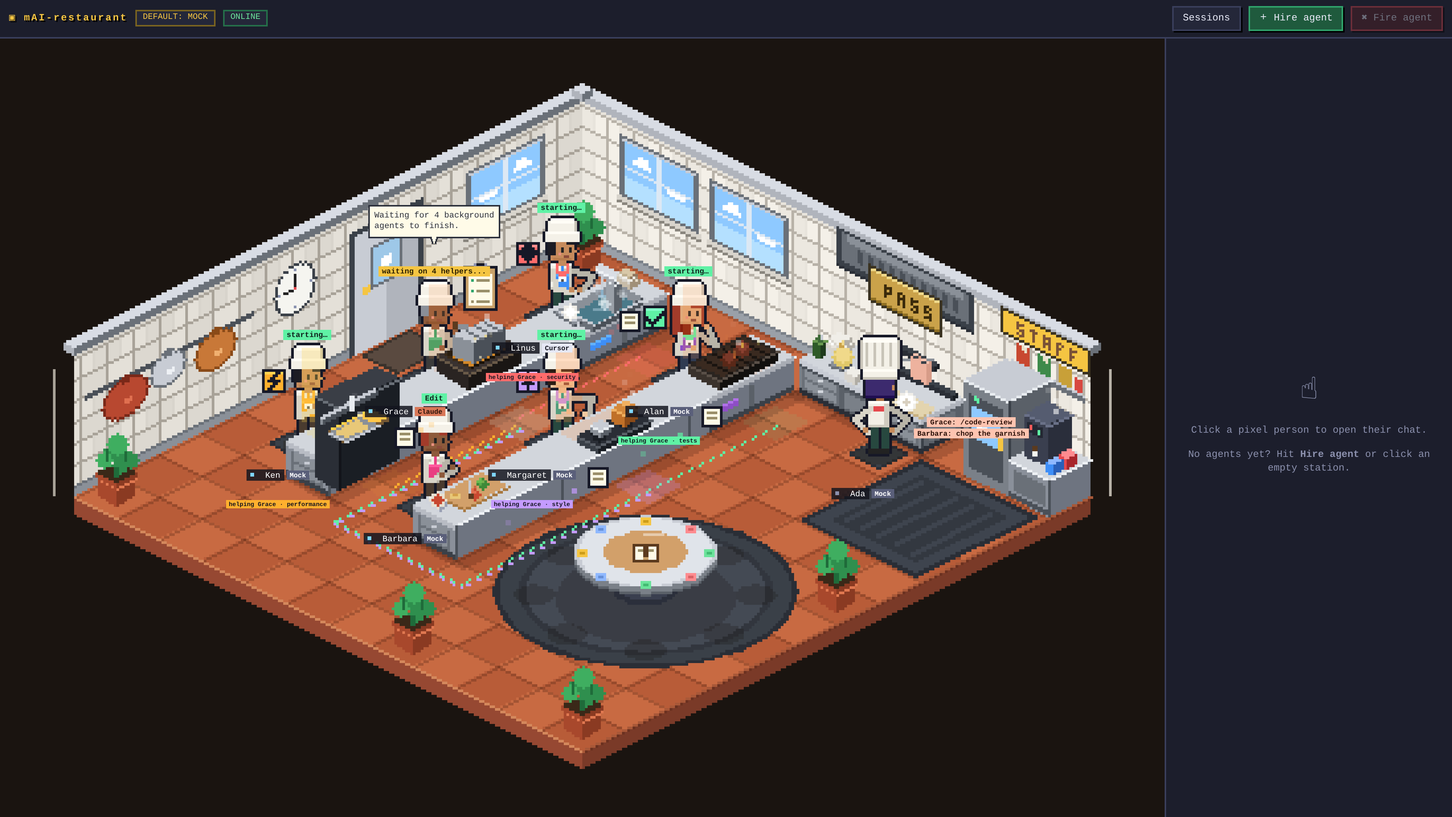
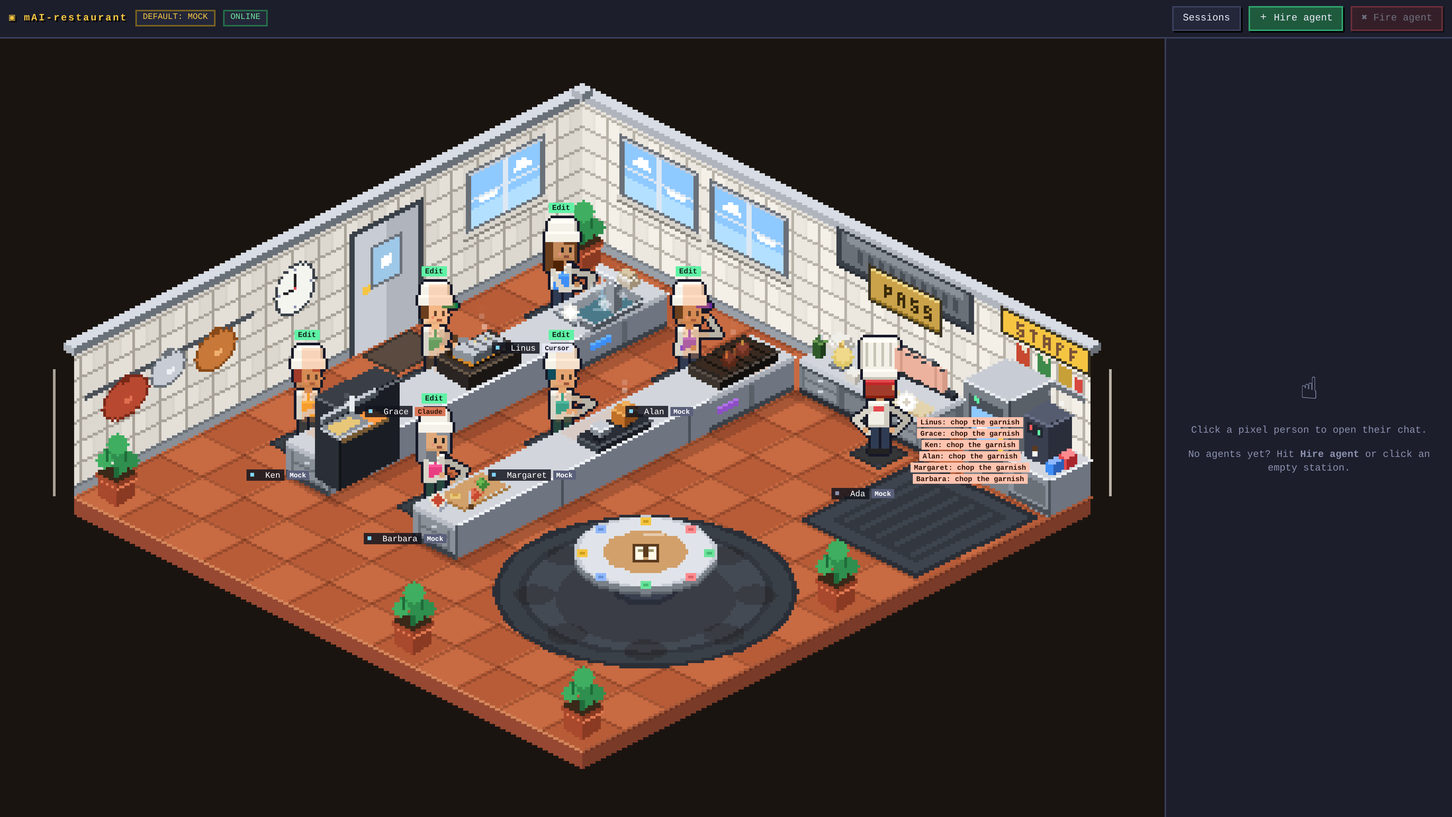
Subagents work as kitchen hands

diff --git a/public/js/app.js b/public/js/app.js
@@ -472,9 +472,8 @@
       if (a.help) {
         const h = a.help, desk = !a.away && h.phase !== 'go';
         const pose = h.phase === 'go' ? 'walk' : h.phase === 'work' ? 'work' : (h.phase === 'failed' ? 'worry' : 'cheer');
-        if (desk) {       // seated at their own desk: typing animation, monitor flicker and tool chip come from the normal "working" rendering
-          if (h.phase === 'work') { state = 'working'; tool = h.tool || 'starting…'; } else { state = h.phase === 'failed' ? 'error' : (h.cheerUntil && now < h.cheerUntil ? 'done' : 'idle'); tool = null; }   // ok: sits satisfied, then everyone celebrates together at wrap-up
-        }
+        if (h.phase === 'work') { state = 'working'; tool = h.tool || 'starting…'; }   // at their own station or on a trip for the tool
+        else if (desk) { state = h.phase === 'failed' ? 'error' : (h.cheerUntil && now < h.cheerUntil ? 'done' : 'idle'); tool = null; }   // ok: back at the station, then everyone celebrates together at wrap-up
         const pe = h.peer && now < h.peer.until ? agents.get(h.peer.withId) : null;
         if (pe) {
           const beat = Math.floor((now - h.peer.t0) / (1100 * TS));
@@ -489,7 +488,7 @@
         phase: a.phase, away: a.away, x: a.x, y: a.y, face: a.face || 0, mode: a.mode, dest: a.dest || null, cook: a.cook || null, bubble,
         act: a.act ? a.act.kind : null, actP: a.act ? (now - a.act.t0) / 1000 : 0,
         talk: htalk != null ? htalk : talk, talkDir: htalk != null ? htalkDir : (a.chatSide === 0 ? 1 : -1),
-        help: helpV, waiting: (a.subs || []).length,
+        help: helpV, waiting: (a.subs || []).length, carry: a.dest === 'serve' && (a.mode === 'serve' || a.dir === 1) && a.help ? (a.help.phase === 'failed' ? 'burnt' : 'ok') : null,
         planAge: a.planAt && now - a.planAt < 3200 * TS ? (now - a.planAt) / 1000 : null,
         huddle: a.huddle && now < a.huddle.until ? (now - a.huddle.t0) / 1000 : null,
         faceOv: a.turn && now < a.turn.until && !a.away ? a.turn.face : null,
@@ -499,11 +498,10 @@
   const planView = () => { const o = planOwner(); return o ? { state: o.plan.state, summary: o.plan.summary || '', ownerId: o.id } : null; };
   const flightsView = (now) => flights.map((f) => ({ kind: f.kind, pid: f.pid, hid: f.hid, toId: f.toId, ok: f.ok, p: (now - f.t0) / f.dur }));
 
-  // ---------- helpers (subagents) = EXISTING colleagues, working at THEIR OWN desks ----------
+  // ---------- helpers (subagents) = EXISTING colleagues working as kitchen hands ----------
   // The server assigns every sub-task to an existing person (idle first, otherwise a new regular agent is hired and walks in through the door).
-  // That person gets `helping`: if they are away (coffee, chat) they walk back to their own desk, sit and show the helper state there (role badge,
-  // lanyard, tool chip, typing, monitor flicker, "helping <lead>" tag). Nobody walks over to the lead: papers/envelopes/letters fly along dotted
-  // lines between the desks, and the wrap-up is a synchronized celebration at each desk plus the consolidated bubble over the lead.
+  // That person gets `helping`: if away they walk back to their own station first. The head chef's ticket flies over, then the first tool with
+  // a station (see toolTrip) sends them there for the whole task. When the job ends they carry the dish to the pass, then go home.
   const flights = [];                // in-flight papers/envelopes/letters (drawn along the desk-to-desk lines)
   const peerQ = [];                  // inferred peer events waiting for both helpers to be working
   function turnToward(a, x, y, ms, now) {
@@ -539,9 +537,7 @@
   function endHelp(a, ok, short, now) {
     const h = a.help; if (!h || h.phase === 'ok' || h.phase === 'failed') return;
     if (h.phase === 'go') { h.ended = { ok, short }; return; }     // result arrived while still walking to the desk: hand it over once seated
-    h.phase = ok ? 'ok' : 'failed'; h.endAt = now; h.tool = null; h.say = short || (ok ? 'done' : 'failed'); h.sayUntil = now + 3400 * TS;
-    const parent = agents.get(h.parentId);
-    if (parent) { flights.push({ kind: 'back', pid: parent.id, hid: a.id, ok, t0: now, dur: 1500 * TS }); turnToward(parent, seatOf(a).x, seatOf(a).y, 1800 * TS, now); }
+    h.phase = ok ? 'ok' : 'failed'; h.endAt = now; h.tool = null; h.say = short || (ok ? 'done' : 'failed'); h.sayUntil = now + 3400 * TS;   // updateHelp walks the dish to the pass
   }
   /** the helper job is over for the client: back to normal idle, still sitting at their own desk */
   function releaseHelp(a, now) {
@@ -573,19 +569,25 @@
       if (h.phase === 'go' && !a.away) { a.mode = 'sit'; arriveHelp(a, now); }
       if (h.peer) {
         const o = agents.get(h.peer.withId);
-        if (now < h.peer.until && o && !a.away) turnToward(a, seatOf(o).x, seatOf(o).y, 300, now); else h.peer = null;
+        if (now < h.peer.until && o) { if (!a.away) turnToward(a, seatOf(o).x, seatOf(o).y, 300, now); } else h.peer = null;
       }
-      if (h.phase === 'ok' || h.phase === 'failed') {          // wait (at the desk) until the team wrapped up, then back to normal idle
+      if (h.phase === 'ok' || h.phase === 'failed') {          // carry the dish to the pass, come back, wait until the team wrapped up, then normal idle
         const parent = agents.get(h.parentId);
+        if (!h.serving && (!a.away || a.dest === 'pantry' || a.dest === 'heat' || a.dest === 'bell')) {
+          const spot = claimSpot('pass', a); h.serving = true;
+          if (!spot) h.served = true;
+          else if (!a.away) startWalk(a, spot, 'serve');
+          else { a.pts = Office.walkBetween({ x: a.x, y: a.y }, spot); a.idx = 0; a.target = Math.min(1, a.pts.length - 1); a.dir = 1; a.mode = 'walk'; a.dest = 'serve'; a.spot = spot; }   // straight from the pantry / stove
+        }
         const others = [...agents.values()].some((b) => b !== a && b.help && b.help.parentId === h.parentId && (b.help.phase === 'go' || b.help.phase === 'work'));
         const wrapping = parent && parent.huddle && now < parent.huddle.until;
-        if (!parent || now > h.endAt + 8000 * TS || (now > h.endAt + 2600 * TS && !others && !wrapping)) releaseHelp(a, now);
+        if (!a.away && (!parent || now > h.endAt + 25000 * TS || (h.served && !others && !wrapping))) releaseHelp(a, now);
       }
     }
     for (let i = peerQ.length - 1; i >= 0; i--) {
       const q = peerQ[i], e = q.e, A = agents.get(e.from && e.from.helperId), B = agents.get(e.to && e.to.helperId);
       if (!A || !B || now - q.t > 10000 * TS) { peerQ.splice(i, 1); continue; }
-      if (A.help && B.help && !A.away && !B.away && A.help.phase === 'work' && B.help.phase === 'work') {
+      if (A.help && B.help && A.help.phase === 'work' && B.help.phase === 'work') {
         const g = Math.max(0, ['?', '!', '...'].indexOf(e.glyph)), until = now + 3600 * TS;
         A.help.peer = { withId: B.id, t0: now, until, side: 0, g, why: e.text }; B.help.peer = { withId: A.id, t0: now, until, side: 1, g, why: e.text };
         peerQ.splice(i, 1);
@@ -654,7 +656,8 @@
   const busy = (a) => a.state !== 'idle' && a.state !== 'done';
   const joinable = (a, o) => !a.away && a.mode === 'sit' && !a.act && !a.help && !a.pendingHelp && !a.helping && !a.queued && !busy(a) && a.id !== selectedId && a !== o;
   const wantsHome = (a) => {
-    if (a.away && (a.dest === 'pantry' || a.dest === 'bell' || a.dest === 'heat')) return tripOf(a) !== (a.dest === 'heat' ? 'stove' : a.dest) || a.id === selectedId;
+    if (a.away && a.dest === 'serve') return !a.help;
+    if (a.away && (a.dest === 'pantry' || a.dest === 'bell' || a.dest === 'heat')) return tripOf(a) !== (a.dest === 'heat' ? 'stove' : a.dest);
     if (a.away && a.dest === 'meet') { const o = planOwner(); return !meetingFor(a) || (a !== o && (busy(a) || !!a.help || !!a.helping || a.id === selectedId)); }
     return !!a.help || busy(a) || a.id === selectedId || !!planOwner();
   };
@@ -664,7 +667,7 @@
 
   // tool use becomes a kitchen trip: pantry (read/search), own station's set (edit), stove/heat (bash: stay if
   // the station is already a heat set, otherwise walk to the nearest heat aisle), pass bell for a deploy / git push.
-  // Helpers on a team job stay at their own station.
+  // Kitchen hands (helpers) make the same trips for their subagent's tool once the ticket has reached them.
   const DEPLOY_RE = /\b(git\s+push|deploy|kubectl\s+apply|terraform\s+apply|npm\s+publish|docker\s+push|wrangler\s+deploy|gh\s+release)\b/i;
   const TRIPS = [
     ['pantry', /^(Read|Grep|Glob|LS|Search|WebSearch|WebFetch|GlobTool)$/i],
@@ -680,8 +683,13 @@
     return null;
   }
   function tripOf(a) {
+    if (a.help) {
+      const h = a.help;
+      if (h.phase !== 'work' || performance.now() < h.arrivedAt + 1800 * TS) return null;   // the ticket is still on its way
+      if (!h.trip) h.trip = toolTrip(h.tool);      // the first tool with a station picks it for the whole task
+      return h.trip;
+    }
     if (a.id === selectedId) return null;
-    if (a.help && (a.help.phase === 'go' || a.help.phase === 'work')) return null;
     if (a.dest === 'meet' || a.mode === 'meet' || a.meetSeat >= 0) return null;
     if (a.state !== 'working' || !a.tool) return null;
     return toolTrip(a.tool, a.toolSummary);
@@ -690,7 +698,7 @@
     const spots = (Office.SPOTS && Office.SPOTS[kind]) || [];
     if (!spots.length) return null;
     const taken = new Set();
-    for (const b of agents.values()) if (b !== a && b.away && b.dest === kind && b.spot) taken.add(b.spot.x + ',' + b.spot.y);
+    for (const b of agents.values()) if (b !== a && b.away && b.spot) taken.add(b.spot.x + ',' + b.spot.y);
     for (const s of spots) if (!taken.has(s.x + ',' + s.y)) return s;
     const n = [...agents.values()].filter((b) => b !== a && b.away && b.dest === kind).length;
     const base = spots[n % spots.length], ox = n % 2 ? 0.32 : -0.32, oy = 0.28 * (Math.floor(n / spots.length) + 1);
@@ -771,6 +779,7 @@
   function stepWalker(a, dt, now) {
     if (a.mode === 'meet') { if (wantsHome(a)) { if (!a.leaveAt) a.leaveAt = now + rand(0, 900) * TS; if (now >= a.leaveAt) { a.leaveAt = 0; leave(a); } } return; }
     if (a.mode === 'pantry' || a.mode === 'bell' || a.mode === 'heat') { if (wantsHome(a)) leave(a); return; }
+    if (a.mode === 'serve') { if (now > a.serveUntil || !a.help) { a.pts = Office.walkPath(a.slot, a.spot); a.idx = a.pts.length - 1; leave(a); } return; }
     if (a.mode === 'drink') { if (now > a.drinkUntil || wantsHome(a)) leave(a); return; }
     if (a.mode === 'chat') {
       const p = agents.get(a.partner);
@@ -790,9 +799,13 @@
           if (a.dest === 'meet') { a.mode = 'meet'; a.meetSince = now; }
           else if (a.dest === 'drink') { a.mode = 'drink'; a.drinkUntil = now + (WANDER_FAST ? 4000 : rand(5000, 10000)) * TS; }
           else if (a.dest === 'pantry' || a.dest === 'bell' || a.dest === 'heat') { a.mode = a.dest; }
+          else if (a.dest === 'serve') {      // dish handed over at the pass: the lead gets the ✓ / ! bubble
+            a.mode = 'serve'; a.serveUntil = now + 1800 * TS;
+            const p = a.help && agents.get(a.help.parentId); if (p) p.rcv = { t0: now, ok: a.help.phase !== 'failed' };
+          }
           else { a.mode = 'chat'; a.waitSince = now; }
         } else a.target++;
-      } else if (a.target === 0) { a.away = false; a.mode = 'sit'; a.partner = null; a.meetSeat = -1; a.dest = null; if (a.help && a.help.phase === 'go') arriveHelp(a, now); else endAct(a, now); }
+      } else if (a.target === 0) { if (a.dest === 'serve' && a.help) a.help.served = true; a.away = false; a.mode = 'sit'; a.partner = null; a.meetSeat = -1; a.dest = null; if (a.help && a.help.phase === 'go') arriveHelp(a, now); else endAct(a, now); }
       else a.target--;
     } else { a.x += (dx / d) * stepLen; a.y += (dy / d) * stepLen; a.face = faceOf(dx, dy); }
   }
@@ -876,7 +889,7 @@
     toolTrip,
     tickets: () => collectTickets(performance.now()),
     ticketHits: () => (Office.ticketHits && Office.ticketHits()) || [],
-    states: () => [...agents.values()].map((a) => ({ id: a.id, main: !!a.main, slot: a.slot, meet: a.away && a.mode === 'meet', dest: a.dest, name: a.name, type: a.type, state: a.state, tool: a.tool, x: a.x, y: a.y, away: a.away, mode: a.mode, act: a.act && a.act.kind, cook: a.cook || null, subs: (a.subs || []).length, helping: a.help ? a.help.phase : null, home: !a.away, seated: !a.away && a.mode === 'sit' })),
+    states: () => [...agents.values()].map((a) => ({ id: a.id, main: !!a.main, slot: a.slot, meet: a.away && a.mode === 'meet', dest: a.dest, name: a.name, type: a.type, state: a.state, tool: a.tool, x: a.x, y: a.y, away: a.away, mode: a.mode, act: a.act && a.act.kind, cook: a.cook || null, carry: a.dest === 'serve' && (a.mode === 'serve' || a.dir === 1), subs: (a.subs || []).length, helping: a.help ? a.help.phase : null, home: !a.away, seated: !a.away && a.mode === 'sit' })),
     help: (id) => { const a = agents.get(id); return a && a.help ? { phase: a.help.phase, parentId: a.help.parentId, role: a.help.role, label: a.help.label, tool: a.help.tool, say: a.help.say, x: a.x, y: a.y, mode: a.mode, away: a.away, seated: !a.away && a.mode === 'sit', peer: !!a.help.peer, tile: Math.floor(a.x) + ',' + Math.floor(a.y) } : null; },
     team: (id) => { const a = agents.get(id); return a ? a.team.slice() : []; },
     huddle: (id) => { const a = agents.get(id); return !!(a && a.huddle && performance.now() < a.huddle.until); },

diff --git a/scripts/test-iso.js b/scripts/test-iso.js
@@ -82,7 +82,7 @@ const assert = (c, m) => { if (!c) { console.error('FAIL:', m); process.exitCode
     const p = await page.evaluate(() => {
       const O = window.Office, bad = [], samples = [];
       let n = 0, axis = true;
-      const spots = [...O.SPOTS.coffee, ...O.SPOTS.chat, ...O.SPOTS.pantry, ...O.SPOTS.bell, ...(O.SPOTS.heat || [])];
+      const spots = [...O.SPOTS.coffee, ...O.SPOTS.chat, ...O.SPOTS.pantry, ...O.SPOTS.bell, ...(O.SPOTS.heat || []), ...O.SPOTS.pass];
       for (const s of O.SLOTS) for (const spot of spots) {
         const pts = O.walkPath(s.i, spot); n++;
         const startTiles = new Set(s.start.map(([x, y]) => x + ',' + y));
@@ -121,7 +121,7 @@ const assert = (c, m) => { if (!c) { console.error('FAIL:', m); process.exitCode
       }
       return { n, slots: O.SLOTS.length, bad: bad.slice(0, 5), axis, own, other, miss: (window.__miss || []).slice(0, 12) };
     });
-    assert(p.n === p.slots * 11 && p.bad.length === 0, `${p.n} paths (${p.slots} desks x coffee/chat/pantry/bell/heat spots) never touch blocked tiles ${p.bad.length ? JSON.stringify(p.bad) : ''}`);
+    assert(p.n === p.slots * 16 && p.bad.length === 0, `${p.n} paths (${p.slots} desks x coffee/chat/pantry/bell/heat/pass spots) never touch blocked tiles ${p.bad.length ? JSON.stringify(p.bad) : ''}`);
     if (p.miss.length) console.log('  misses:', JSON.stringify(p.miss));
     assert(p.axis, 'path segments follow the tile grid (axis aligned)');
     assert(p.own / (p.own + p.other) > 0.97, `walker torso is the front-most hit along paths (${p.own}/${p.own + p.other})`);
@@ -182,7 +182,7 @@ const assert = (c, m) => { if (!c) { console.error('FAIL:', m); process.exitCode
     });
     assert(rt.nbad === 0, `all ${rt.n} desk-to-desk dotted routes (${rt.slots} desks, every pair, every lane) stay on free floor ${JSON.stringify(rt.bad)}`);
 
-    // ---- live /code-review: helpers work at THEIR OWN desks, papers fly along dotted lines, wrap-up at each desk ----
+    // ---- live /code-review: helpers are kitchen hands: ticket from the lead, trips for their tools, dish back to the pass ----
     for (const n of ['Grace', 'Alan']) { await page.evaluate((n) => window.harness.send({ type: 'hire', name: n, cwd: '/tmp' }), n); await sleep(250); }
     await sleep(500);
     const adaId = await page.evaluate(() => [...window.harness.agents.values()].find((a) => a.name === 'Ada').id);
@@ -195,15 +195,13 @@ const assert = (c, m) => { if (!c) { console.error('FAIL:', m); process.exitCode
     const live = await page.evaluate((id) => {
       const H = window.harness, ppl = [...H.agents.values()], helpers = ppl.filter((a) => H.help(a.id));
       const tiles = new Set(helpers.map((a) => a.slot));
-      const seated = helpers.every((a) => { const h = H.help(a.id); return h.seated && !h.away; });
       const ada = ppl.find((a) => a.id === id);
-      return { n: helpers.length, tiles: tiles.size, seated, roles: helpers.map((a) => H.help(a.id).role).sort(), people: ppl.length, n0: window.__n0, first: window.__first, notAda: !H.help(id),
+      return { n: helpers.length, tiles: tiles.size, roles: helpers.map((a) => H.help(a.id).role).sort(), people: ppl.length, n0: window.__n0, first: window.__first, notAda: !H.help(id),
         sub: document.querySelectorAll('#transcript details.msg.sub').length, open: document.querySelectorAll('#transcript details.msg.sub[open]').length,
         team: document.querySelectorAll('#teamLog .te').length, teamVisible: !document.getElementById('teamBox').hidden,
         tip: H.tooltip(helpers[0].id), names: helpers.map((a) => a.name), hired: ppl.filter((a) => a.transcript.some((m) => /Hired automatically/.test(m.text))).map((a) => a.name) };
     }, adaId);
     assert(live.n === 4 && live.tiles === 4 && live.notAda, `/code-review: 4 people (not the lead), each from a different desk (${live.names.join(',')})`);
-    assert(live.seated, 'all 4 helpers stay at their own stations while working (nobody crowding the lead)');
     assert(JSON.stringify(live.roles) === JSON.stringify(['performance', 'security', 'style', 'tests']), `helpers carry the 4 derived roles (${live.roles.join(',')})`);
     assert(live.people === live.n0 + 1 && live.hired.length === 1, `office had 3 idle colleagues, so exactly 1 new regular agent was auto-hired (${live.hired.join(',')})`);
     const fp = live.first[live.hired[0]];
@@ -221,14 +219,22 @@ const assert = (c, m) => { if (!c) { console.error('FAIL:', m); process.exitCode
     const subTxt = await page.evaluate(() => document.querySelector('#transcript details.msg.sub summary').textContent);
     assert(/^●Agent\([^)]+\)⎿\w+ · \w+ · (running|done)/.test(subTxt), 'helper reads "● Agent(label)" then "⎿ colleague · role · status": ' + subTxt);
     // flights + inferred interactions during the run
-    let kinds = new Set(), sawPeerTalk = false, sawHuddle = false, standing = 0;
-    for (let i = 0; i < 700 && !(sawHuddle && kinds.has('back') && kinds.has('out') && sawPeerTalk); i++) {
-      const r = await page.evaluate((id) => ({ st: window.harness.states().filter((s) => s.helping === 'work' && !s.seated).length, f: window.harness.flights().map((f) => f.kind), pe: [...window.harness.agents.values()].some((a) => (window.harness.help(a.id) || {}).peer), hu: window.harness.huddle(id) }), adaId);
-      standing += r.st; r.f.forEach((k) => kinds.add(k)); sawPeerTalk = sawPeerTalk || r.pe; sawHuddle = sawHuddle || r.hu; await sleep(60);
+    let kinds = new Set(), sawPeerTalk = false, sawHuddle = false, handTrips = new Set(), served = [], stacked = false;
+    for (let i = 0; i < 900 && !(sawHuddle && kinds.has('out') && sawPeerTalk && served.length >= 4); i++) {
+      const r = await page.evaluate((id) => ({ st: window.harness.states().filter((s) => s.helping), f: window.harness.flights().map((f) => f.kind), pe: [...window.harness.agents.values()].some((a) => (window.harness.help(a.id) || {}).peer), hu: window.harness.huddle(id) }), adaId);
+      const atPass = r.st.filter((s) => s.mode === 'serve').map((s) => s.x.toFixed(1) + ',' + s.y.toFixed(1));
+      if (new Set(atPass).size !== atPass.length) stacked = true;
+      for (const s of r.st) {
+        if (s.helping === 'work' && s.away && (s.dest === 'pantry' || s.dest === 'heat')) handTrips.add(s.dest);
+        if (s.mode === 'serve' && s.carry && !served.some((x) => x.id === s.id)) served.push({ id: s.id, x: s.x, y: s.y });
+      }
+      r.f.forEach((k) => kinds.add(k)); sawPeerTalk = sawPeerTalk || r.pe; sawHuddle = sawHuddle || r.hu; await sleep(60);
     }
-    assert(standing === 0, 'during the whole run no working helper was ever standing/walking away from their desk');
-    assert(kinds.has('out') && kinds.has('back'), 'paper flies lead -> helper and an envelope flies helper -> lead');
-    assert(sawPeerTalk, 'two helpers touching the same file talk across their desks via bubbles + a peer line (inferred peer talk), without walking');
+    assert(kinds.has('out'), 'the lead hands every helper a ticket (flies lead -> helper)');
+    assert(handTrips.has('pantry'), 'kitchen hands walk to the pantry for their Read/Grep jobs: ' + [...handTrips].join(','));
+    assert(served.length === 4 && served.every((p) => p.x > 6 && p.x < 10 && p.y < 3), 'every helper carries a dish to the pass when done: ' + JSON.stringify(served.map((p) => [p.x.toFixed(1), p.y.toFixed(1)])));
+    assert(!stacked, 'kitchen hands at the pass at the same time stand on different spots');
+    assert(sawPeerTalk, 'two helpers touching the same file compare notes via bubbles (inferred peer talk)');
     assert(sawHuddle, 'synchronized wrap-up (celebration at every desk + team wrap-up chip) shows when every helper has reported');
     const inf = await page.evaluate((id) => ({ team: window.harness.team(id), tags: [...document.querySelectorAll('#teamLog .te .inf')].map((e) => e.textContent) }), adaId);
     assert(inf.team.filter((e) => e.kind === 'peer').every((e) => e.inferred) && inf.team.some((e) => e.kind === 'peer') && inf.tags.length >= 1, 'peer entries are flagged inferred and tagged "inferred" in the feed');

diff --git a/public/js/office-iso.js b/public/js/office-iso.js
@@ -58,6 +58,8 @@
     // a couple of places at the fridge / shelf and at the pass, so cooks on the same trip don't stack
     pantry: [{ x: 11.5, y: 1.5, face: 3 }, { x: 10.5, y: 2.5, face: 3 }, { x: 11.5, y: 3.5, face: 3 }],
     bell: [{ x: 6.5, y: 1.5, face: 3 }, { x: 6.5, y: 2.5, face: 3 }],
+    // in front of the pass, where kitchen hands bring dishes back to the head chef
+    pass: [{ x: 7.5, y: 1.5, face: 3 }, { x: 6.5, y: 1.5, face: 3 }, { x: 7.5, y: 2.5, face: 3 }, { x: 6.5, y: 2.5, face: 3 }, { x: 9.5, y: 1.5, face: 2 }],
     // aisle spots beside the heat sets, used when Bash is at a cold station (sink / prep)
     heat: [{ x: 3.5, y: 3.5, face: 0 }, { x: 3.5, y: 6.5, face: 0 }, { x: 6.5, y: 3.5, face: 2 }],
   };
@@ -756,7 +758,8 @@
     head(c, look, -30 - bob + nod, front, { blink, mood, hat: (ag.slot === MGR || ag.main) ? 'toque' : 'cap' });
     const sw = walking ? (fr === 1 ? 1 : fr === 3 ? -1 : 0) : 0;
     let N = [-5, -9 + sw * 2], Fh = [5, -9 - sw * 2];
-    if (ag.mode === 'drink') { const sip = Math.floor(t * 1.5) % 2; Fh = [4, -17 - (sip ? 3 : 0)]; N = [-5, -9]; ret.mug = [Fh[0], Fh[1] - 6]; }
+    if (ag.carry) { N = [3, -14]; Fh = [8, -14]; }
+    else if (ag.mode === 'drink') { const sip = Math.floor(t * 1.5) % 2; Fh = [4, -17 - (sip ? 3 : 0)]; N = [-5, -9]; ret.mug = [Fh[0], Fh[1] - 6]; }
     else if (ag.mode === 'pantry' && !walking) { const reach = Math.abs(Math.sin(t * 2.2 + ag.phase * 4)); N = [-3, -22 - reach * 5]; Fh = [6, -16 - (1 - reach) * 3]; }
     else if (ag.mode === 'bell' && !walking) { const ding = Math.floor(t * 3 + ag.phase) % 4 === 0; N = [-5, -9]; Fh = ding ? [8, -22] : [6, -14]; }
     else if (ag.mode === 'heat' && !walking) { const a = t * 9 + ag.phase * 4; N = [3, -12]; Fh = [7 + Math.cos(a) * 2, -12 + Math.sin(a) * 2]; }
@@ -794,7 +797,8 @@
     } else if (pose === 'wait' && ag.talk != null) { const g = Math.floor(t * 4) % 2; Fh = [ag.talkDir > 0 ? 8 : 6, -19 - g * 3]; }
     limb(c, 4, -18 - bob, Fh[0], Fh[1], look, 1, true);
     limb(c, -4, -18 - bob, N[0], N[1], look, -1, false);
-    if (ag.mode === 'drink') { const hx = Fh[0], hy = Fh[1]; R(c, hx - 2, hy - 5, 5, 5, '#f5f5f0'); R(c, hx + 3, hy - 4, 1, 3, '#f5f5f0'); R(c, hx - 2, hy - 5, 5, 1, '#5b3a1e'); }
+    if (ag.carry) { disc(c, 6, -16, 4, '#f0eee8'); disc(c, 6, -16, 3, '#fff'); disc(c, 6, -17, 2, ag.carry === 'burnt' ? '#3a2a20' : '#c84830'); }
+    else if (ag.mode === 'drink') { const hx = Fh[0], hy = Fh[1]; R(c, hx - 2, hy - 5, 5, 5, '#f5f5f0'); R(c, hx + 3, hy - 4, 1, 3, '#f5f5f0'); R(c, hx - 2, hy - 5, 5, 1, '#5b3a1e'); }
     else if (!walking && !ag.away && ag.act === 'read') {
       const cov = ['#8e4ec6', '#3e8ef7', '#e5484d', '#30a46c'][ag.slot % 4], by2 = -16;
       R(c, -7, by2, 14, 9, cov); R(c, -6, by2 + 1, 6, 6, '#fffbe8'); R(c, 0, by2 + 1, 6, 6, '#fffbe8'); R(c, -1, by2 + 1, 2, 6, '#d9cfa8');
@@ -891,11 +895,11 @@
     }
   }
 
-  // pixel icons for the handoffs
-  function paperIcon(c, x, y, f) {
+  // pixel icons for the handoffs: the order ticket the lead hands out (same colour as an in-progress ticket on the rail)
+  function ticketIcon(c, x, y, f) {
     x = Math.round(x); y = Math.round(y); const w = f % 2 ? 2 : 3;
-    R(c, x - w - 1, y - 4, w * 2 + 2, 8, '#161827'); R(c, x - w, y - 3, w * 2, 6, '#fffbe8');
-    R(c, x - w + 1, y - 2, Math.max(1, w * 2 - 2), 1, '#9a8f6a'); R(c, x - w + 1, y, Math.max(1, w * 2 - 2), 1, '#9a8f6a');
+    R(c, x - w - 1, y - 5, w * 2 + 2, 10, '#161827'); R(c, x - w, y - 4, w * 2, 8, '#ffc4b0'); R(c, x - w, y - 4, w * 2, 2, '#e5484d');
+    R(c, x - w + 1, y - 1, Math.max(1, w * 2 - 2), 1, '#8a4a3a'); R(c, x - w + 1, y + 1, Math.max(1, w * 2 - 2), 1, '#8a4a3a');
   }
   function envelopeIcon(c, x, y, seal) {
     x = Math.round(x); y = Math.round(y);
@@ -1149,7 +1153,7 @@
       } else {
         const pe = byId[f.pid], he = byId[f.hid]; if (!pe || !he) continue;
         kc = roleCol(he.help ? he.help.role : f.role); off = lane[he.id] || 0;
-        if (f.kind === 'out') { sa = pe.slot; sb = he.slot; draw = (x, y) => paperIcon(lc, x, y, Math.floor(t * 10)); }
+        if (f.kind === 'out') { sa = pe.slot; sb = he.slot; draw = (x, y) => ticketIcon(lc, x, y, Math.floor(t * 10)); }
         else { sa = he.slot; sb = pe.slot; draw = (x, y) => envelopeIcon(lc, x, y, f.ok === false ? '#e5484d' : '#30a46c'); }
       }
       // the paper / envelope glides along the dotted line, hovering a little above the floor, with a short trail

diff --git a/scripts/kitchen-shots.js b/scripts/kitchen-shots.js
@@ -1,11 +1,12 @@
 'use strict';
 // HD kitchen screenshots: 1920x1080 viewport, deviceScaleFactor 2 -> 3840x2160 PNGs.
 //   kitchen-01-idle.png      cooks idle (stretch / read / look / coffee)
-//   kitchen-02-working.png   several cooks busy, including a /code-review with helpers
+//   kitchen-02-working.png   all six line cooks busy at their own sets
 //   kitchen-03-headchef.png  close-up of the pass (head chef)
 //   kitchen-04-trips.png     cooks at pantry, own station and stove/heat at once
 //   kitchen-05-tickets.png   pass rail with pending, in-progress and done tickets
 //   kitchen-06-line.png      close view of the two joined counter runs and their six sets
+//   kitchen-07-hands.png     the head chef's /code-review: kitchen hands at the pantry, a dish coming back to the pass
 const { spawn } = require('child_process');
 const path = require('path');
 const fs = require('fs');
@@ -84,17 +85,9 @@ const FAKE = makeFakeClaudeDir();
 
     await page.waitForFunction(() => window.harness.states().every((a) => !a.away && !a.act), null, { timeout: 40000 });
 
-    // 02: all six station sets active, including a /code-review with helpers at their own sets
-    await sendTo('Grace', '/code-review');
-    await page.waitForFunction(() => {
-      const H = window.harness;
-      const helpers = [...H.agents.values()].filter((a) => { const h = H.help(a.id); return h && h.phase === 'work' && h.seated; });
-      return helpers.length >= 4;
-    }, null, { timeout: 40000 });
+    // 02: all six station sets active
     await page.evaluate(() => {
-      const H = window.harness;
-      const rest = [...H.agents.values()].filter((a) => a.slot < 6 && a.name !== 'Grace' && !H.help(a.id));
-      for (const a of rest) H.send({ type: 'send', id: a.id, text: 'chop the garnish' });
+      for (const a of window.harness.agents.values()) if (a.slot < 6) window.harness.send({ type: 'send', id: a.id, text: 'chop the garnish' });
     });
     await page.waitForFunction(() => {
       const line = window.harness.states().filter((a) => a.slot < 6);
@@ -173,6 +166,22 @@ const FAKE = makeFakeClaudeDir();
     await page.evaluate(() => { for (const a of window.harness.agents.values()) a.bubble = null; });
     await sleep(400);
     await shot('kitchen-05-tickets.png');
+
+    // 07: kitchen hands: the head chef hands out tickets, helpers work where their tool is, finished dishes come back to the pass
+    await page.evaluate(() => {
+      window.harness.select(null);
+      for (const a of window.harness.agents.values()) window.harness.send({ type: 'interrupt', id: a.id });
+    });
+    await idle(30000).catch(() => {});
+    await sleep(6000);
+    await sendTo('Ada', '/code-review');
+    await page.evaluate(() => window.harness.select(null));
+    await page.waitForFunction(() => {
+      const st = window.harness.states();
+      return st.some((s) => s.carry && s.mode === 'serve') && st.some((s) => s.helping === 'work' && s.away);
+    }, null, { timeout: 60000 });
+    await sleep(300);
+    await shot('kitchen-07-hands.png');
   } finally {
     await browser.close(); srv.kill();
   }

diff --git a/scripts/team-shots.js b/scripts/team-shots.js
@@ -1,7 +1,7 @@
 'use strict';
 // Shared by screenshots.js / screenshots-hd.js: the mock /code-review scenario. The lead hands out the plan, EXISTING colleagues (plus an
-// auto-hired one when nobody is idle) work at THEIR OWN desks; one screenshot per beat: helpers working with dotted lines + papers in flight,
-// a peer-conversation moment (inferred), a result handoff in mid-air and the synchronized wrap-up.  shots = { mid, peer, handoff, huddle }.
+// auto-hired one when nobody is idle) take a ticket at their own stations; one screenshot per beat: helpers working with dotted lines + tickets in flight,
+// a peer-conversation moment (inferred), a helper carrying the dish to the pass and the synchronized wrap-up.  shots = { mid, peer, handoff, huddle }.
 module.exports = async function teamShots(page, parentName, shots, sleep) {
   const pid = await page.evaluate((n) => { const a = [...window.harness.agents.values()].find((x) => x.name === n); window.harness.select(a.id); return a.id; }, parentName);
   await page.fill('#input', '/code-review'); await page.press('#input', 'Enter');
@@ -11,7 +11,7 @@ module.exports = async function teamShots(page, parentName, shots, sleep) {
     const s = await page.evaluate((id) => {
       const H = window.harness, ppl = [...H.agents.values()];
       const work = ppl.filter((a) => { const h = H.help(a.id); return h && h.phase === 'work' && h.seated; });
-      return { work: work.length, flying: H.flights().filter((f) => f.kind === 'out').length, peer: ppl.some((a) => (H.help(a.id) || {}).peer), back: H.flights().some((f) => f.kind === 'back'), huddle: H.huddle(id) };
+      return { work: work.length, flying: H.flights().filter((f) => f.kind === 'out').length, peer: ppl.some((a) => (H.help(a.id) || {}).peer), back: H.states().some((a) => a.carry), huddle: H.huddle(id) };
     }, pid);
     if (!done.mid && s.work >= 4 && (s.flying || Date.now() - t0 > 30000)) { done.mid = true; await sleep(450); await shots.mid(); continue; }
     if (done.mid && !done.peer && s.peer) { done.peer = true; await sleep(450); await shots.peer(); continue; }

diff --git a/README.md b/README.md
@@ -30,7 +30,7 @@ Every message you send runs the real CLI in print mode (`claude -p` or `agent -p
 | Send a prompt | The cook starts thinking. The chat shows `> your prompt`, like the terminal. |
 | Read, edit, write, run Bash | The cook chops or stirs, steam rises from the stove, and the tool name floats over their head. The chat gets `● Read(file)` lines with results, edit diffs and todo lists. |
 | Reply | Markdown in the chat and a speech bubble over the cook. A `Done in … · N turns · $…` line closes the run. |
-| Subagents and background agents (e.g. `/code-review`) | Idle colleagues take the jobs and work at their own stations. Papers and envelopes fly between the stations, and the lead waits until all of them report. |
+| Subagents and background agents (e.g. `/code-review`) | Idle colleagues become kitchen hands. The head chef hands each one a ticket, they walk to the station their tools need (pantry for reads, stove for Bash), carry the dish back to the pass, then go home. The lead waits until all of them report. |
 | Plan mode | The team walks to the pass. When the plan is ready they cheer and go back. |
 | Slash commands | Type `/` to pick from your own commands and skills (`~/.claude/commands`, skills, plugins, project folders). The text goes to the CLI unchanged. |
 | Permission modes | Shift+Tab in the message box cycles modes, like the CLI: default, accept edits and plan for Claude; default, plan and ask for Cursor. |
@@ -70,4 +70,4 @@ The server listens on 127.0.0.1 only and makes no outbound calls of its own; onl
 
 ## More
 
-[docs/DETAILS.md](docs/DETAILS.md) covers the renderer, the adapter internals and event shapes, the WebSocket protocol, tests and screenshot scripts.
+[docs/ROADMAP.md](docs/ROADMAP.md) lists what is built and what is next. [docs/DETAILS.md](docs/DETAILS.md) covers the renderer, the adapter internals and event shapes, the WebSocket protocol, tests and screenshot scripts.

diff --git a/docs/DETAILS.md b/docs/DETAILS.md
@@ -76,8 +76,10 @@ Turn plan mode on per agent: the **Permission mode** select in the Hire dialog, 
 ## Team collaboration: colleagues help each other
 
 One project, several agents: when an agent runs work in parallel (a Claude `Task`/`Agent` fan-out such as `/code-review`, Cursor helper tasks,
-or the mock's simulated team) the helpers are **the people who already work in the kitchen**. Nobody pops in or fades out, and **nobody walks over to the
-lead**: every helper does the job **at their own station**, and the exchange is drawn between the stations.
+or the mock's simulated team) the helpers are **the people who already work in the kitchen**. Nobody pops in or fades out. They work as **kitchen hands**:
+the head chef's ticket flies to the helper's station, the first tool with a station (the kitchen-trip mapping: reads → pantry, Bash → stove, deploy → bell,
+edits → own board) sends them there for the whole job, and when it ends they carry the dish (burnt if it failed) to a free spot at the pass, hand it over and
+walk home. The text below still describes the station-to-station lines and the wrap-up.
 
 ![4 helpers](../screenshots/15-team-code-review-4-helpers.png)
 ![peer talk](../screenshots/16-team-peer-conversation.png)

diff --git a/docs/ROADMAP.md b/docs/ROADMAP.md
@@ -1,0 +1,9 @@
+# Roadmap
+
+- [x] 1. Kitchen trips: tool use sends cooks to the pantry, stove and bell
+- [x] 2. Order tickets on the pass rail
+- [x] 3. Subagents work as kitchen hands
+- [ ] 4. Approvals at the pass
+- [ ] 5. Resting and out-of-limit states
+- [ ] 6. Small reactions
+- [ ] 7. Dining room view
